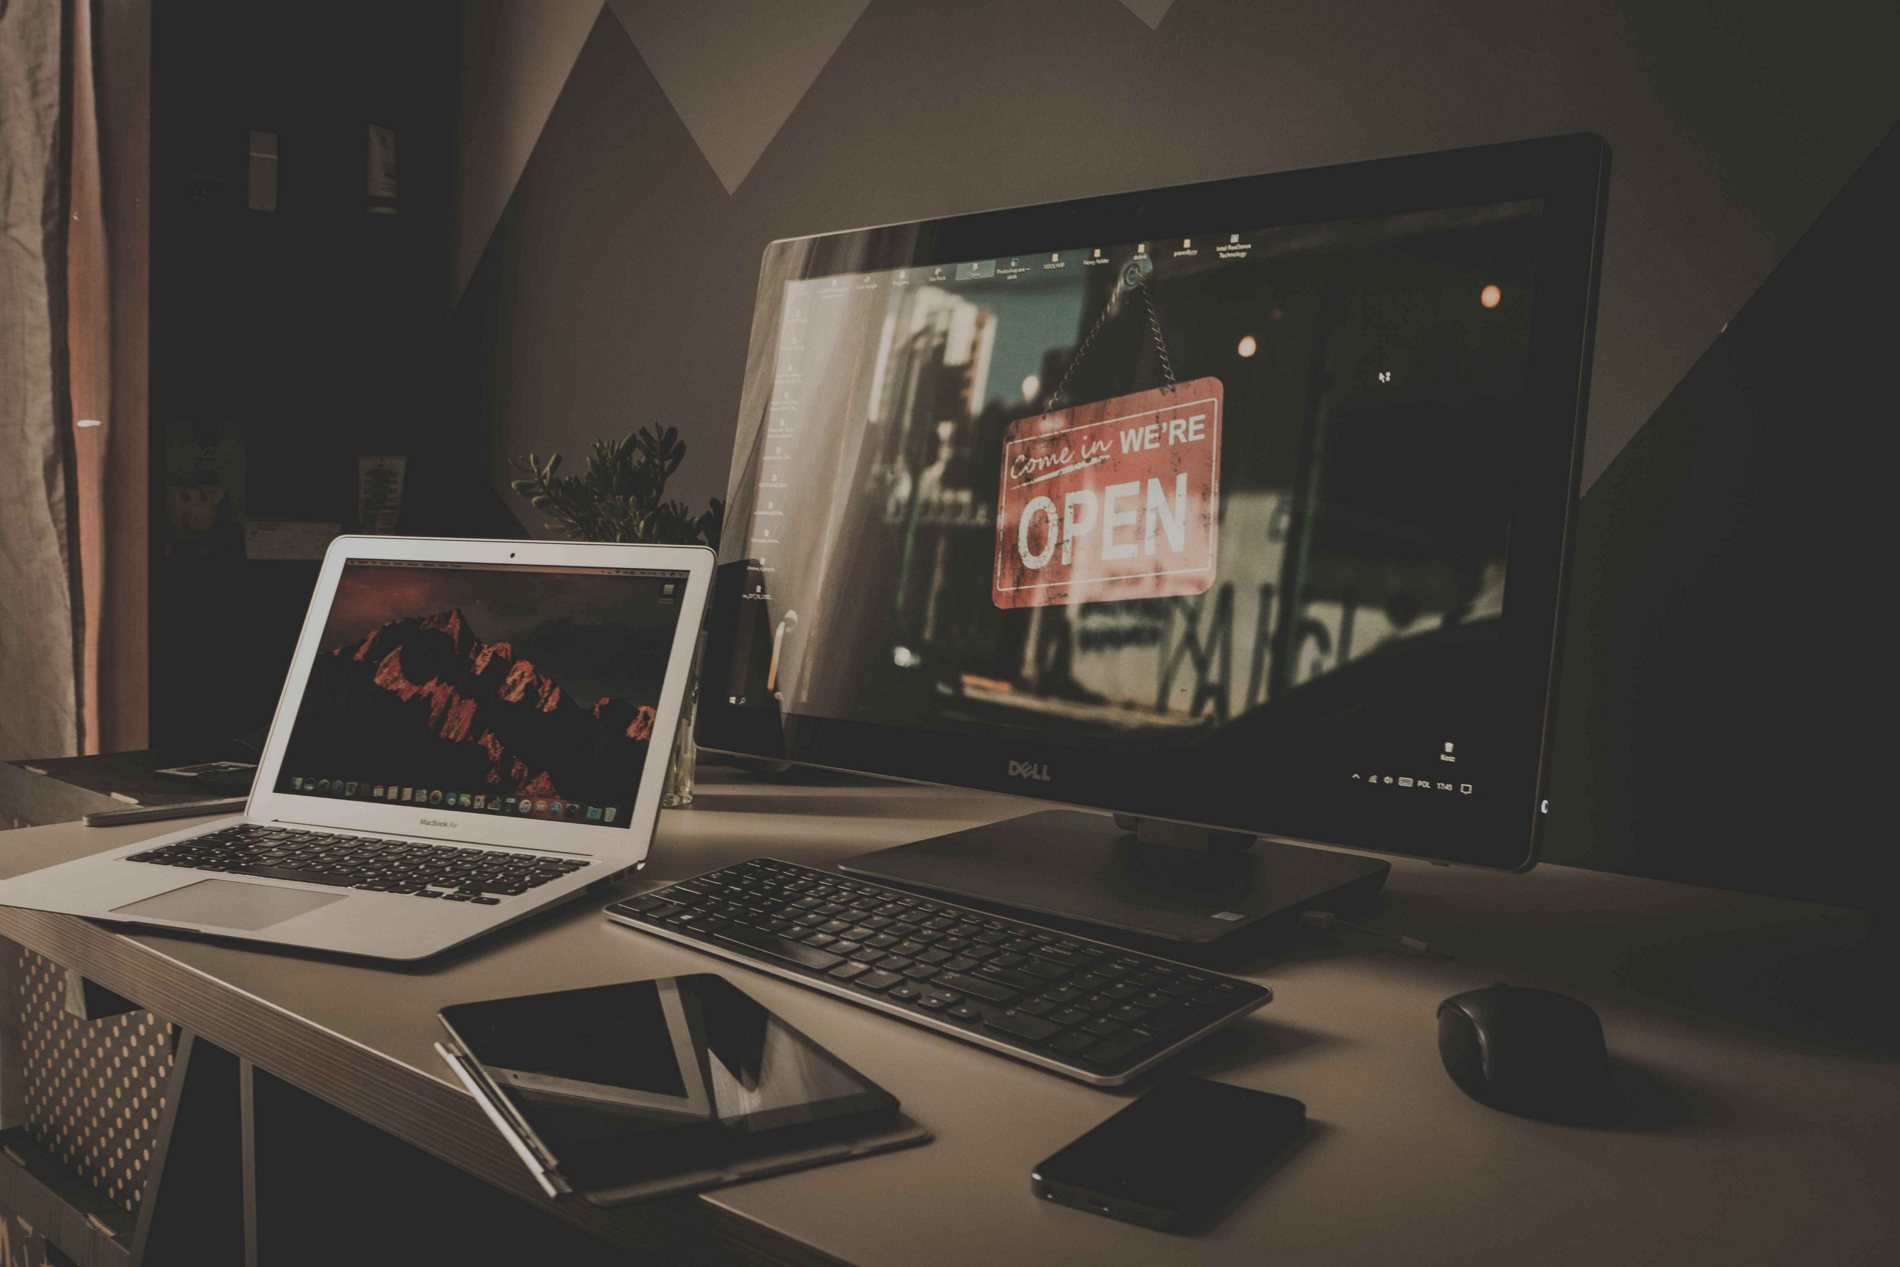
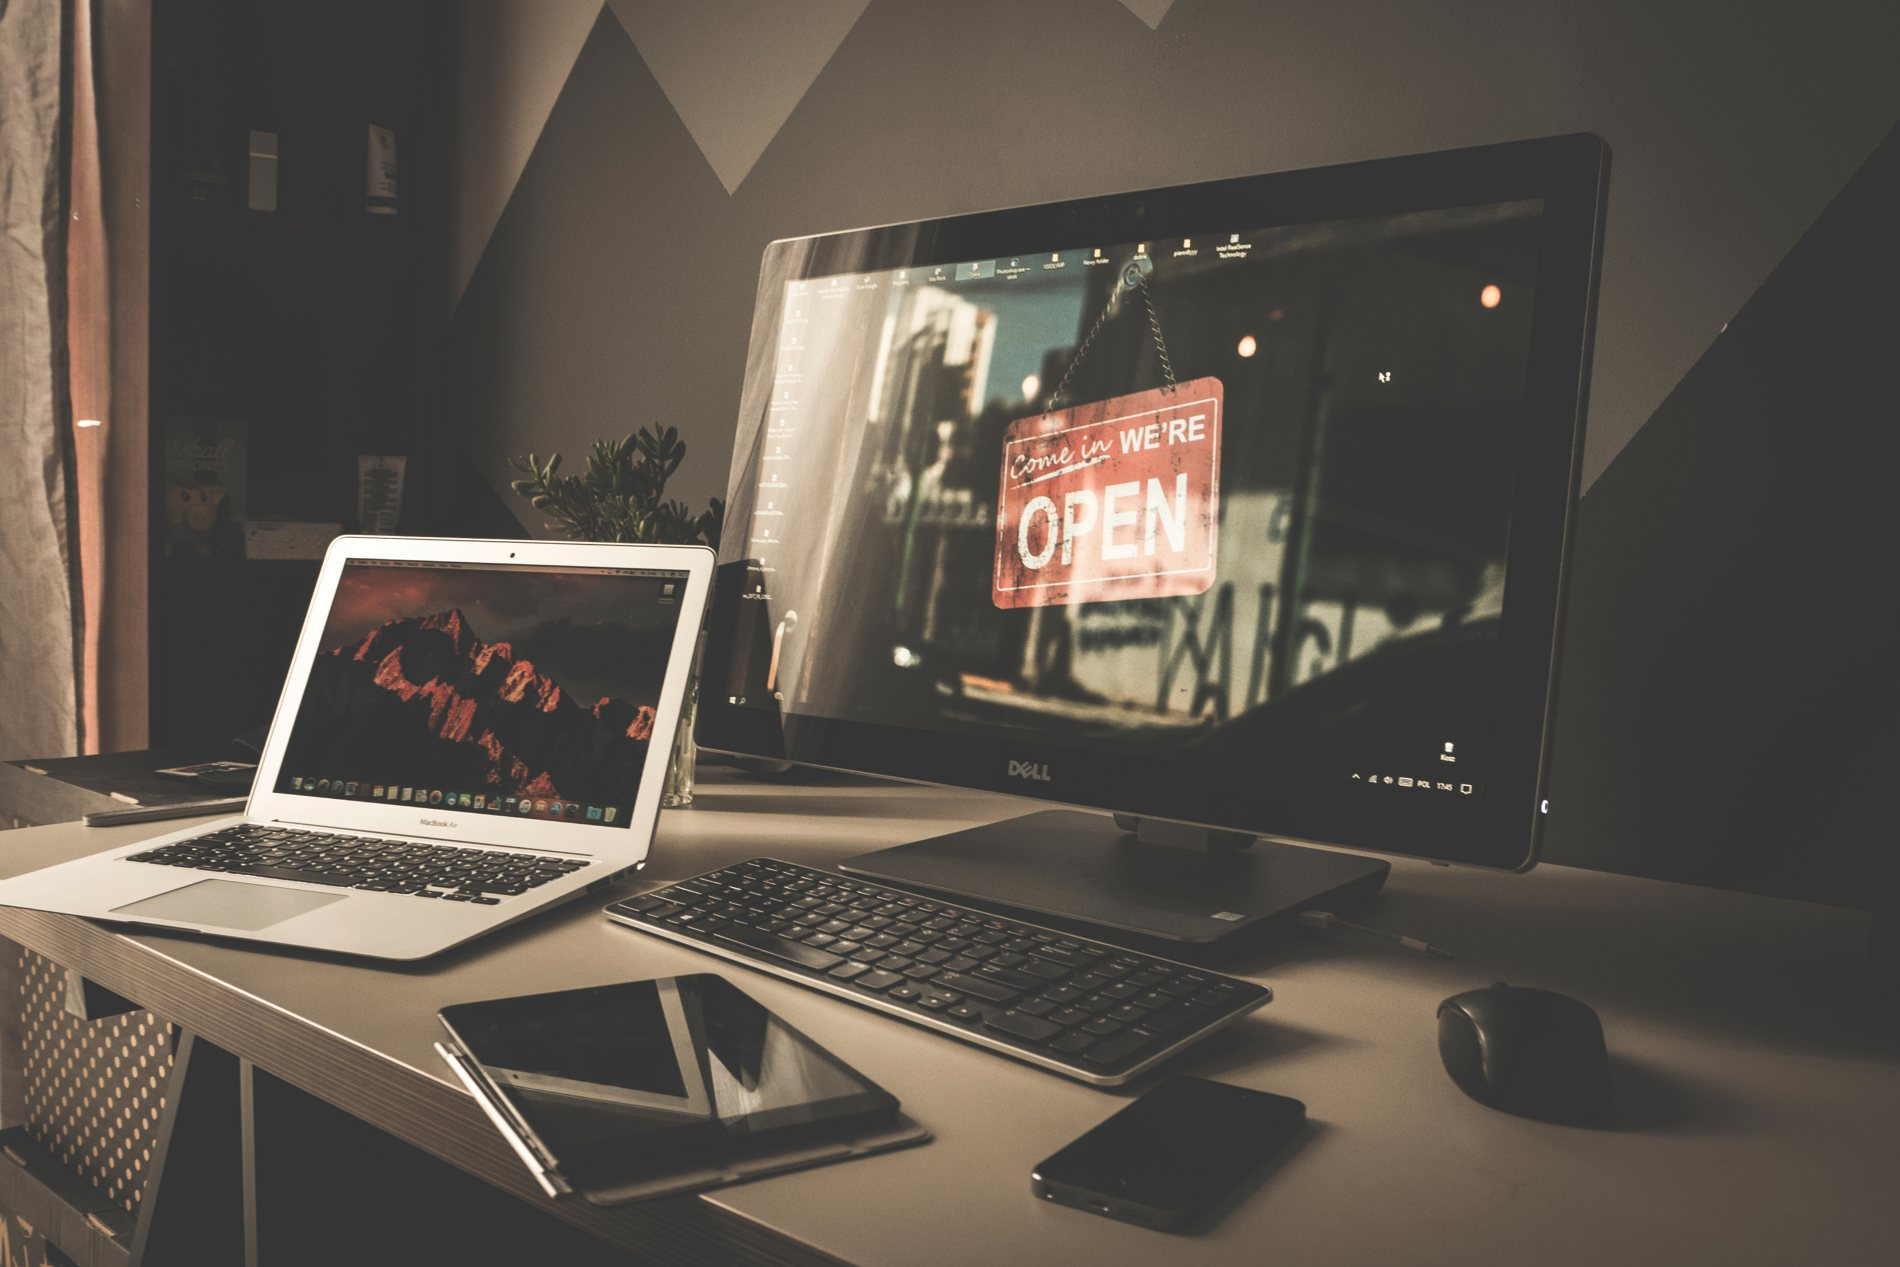
images change

diff --git a/public/index.html b/public/index.html
@@ -75,7 +75,7 @@
 
 
     <!-- Hero Area Section -->
-    <section class="hero-area" style='background-image: url(" images/header-bg.jpg");'>
+    <section class="hero-area" style='background-image: url(" images/header-bg.webp");'>
         <div class="container">
             <div class="row">
                 <div class="col-lg-7 col-md-6">
@@ -124,13 +124,15 @@
                     </div>
                 </div>
                 <div class="col-md-5 col-sm-12 wow fadeInLeft" data-wow-delay="0.3s">
-                    <div class="about-slider owl-carousel owl-theme" style="opacity: 1; display: block;">
+                    <div class="about-slider">
                         
                             <img src="images/about/1.jpg" alt="slider-image">
                         
                             <img src="images/about/2.jpg" alt="slider-image">
                         
                             <img src="images/about/3.jpg" alt="slider-image">
+                        
+                            <img src="images/about/2.jpg" alt="slider-image">
                         
                     </div>
                 </div>
@@ -178,38 +180,6 @@
                     </div>
                 
                     <div class="col-sm-6 col-md-3 wow fadeInLeft" data-wow-delay="0.6s">
-                        <div class="block">
-                            <i class="tf-globe"></i>
-                            <h3>Fully SEO Optimized</h3>
-                            <p>Lorem ipsum dolor sit amet, con-sectetur adipisicing elit, sed do eiusmod tempor incididunt ut</p>
-                        </div>
-                    </div>
-                
-                    <div class="col-sm-6 col-md-3 wow fadeInLeft" data-wow-delay="0.8s">
-                        <div class="block">
-                            <i class="tf-strategy"></i>
-                            <h3>Fully Responsive</h3>
-                            <p>Lorem ipsum dolor sit amet, con-sectetur adipisicing elit, sed do eiusmod tempor incididunt ut</p>
-                        </div>
-                    </div>
-                
-                    <div class="col-sm-6 col-md-3 wow fadeInLeft" data-wow-delay="1s">
-                        <div class="block">
-                            <i class="tf-circle-compass"></i>
-                            <h3>Speed Optimized</h3>
-                            <p>Lorem ipsum dolor sit amet, con-sectetur adipisicing elit, sed do eiusmod tempor incididunt ut</p>
-                        </div>
-                    </div>
-                
-                    <div class="col-sm-6 col-md-3 wow fadeInLeft" data-wow-delay="1.2s">
-                        <div class="block">
-                            <i class="tf-anchor2"></i>
-                            <h3>Tons of Feature</h3>
-                            <p>Lorem ipsum dolor sit amet, con-sectetur adipisicing elit, sed do eiusmod tempor incididunt ut</p>
-                        </div>
-                    </div>
-                
-                    <div class="col-sm-6 col-md-3 wow fadeInLeft" data-wow-delay="1.5s">
                         <div class="block">
                             <i class="tf-globe"></i>
                             <h3>Fully SEO Optimized</h3>

diff --git a/public/js/main.js b/public/js/main.js
@@ -26,21 +26,6 @@ $(document).ready(function(){
         //console.log('a');
         $(".navigation").removeClass("animated");
     }});
-    
-    $year = $('#countdown_dashboard').data('year');
-    $month = $('#countdown_dashboard').data('month');
-    $day = $('#countdown_dashboard').data('day');
-    $('#countdown_dashboard').countDown({
-        targetDate: {
-            'day':      $day,
-            'month':    $month,
-            'year':     $year,
-            'hour':     23,
-            'min':      59,
-            'sec':      59,
-        },
-        omitWeeks: true
-    });
 
     $(".about-slider").owlCarousel(
         {
